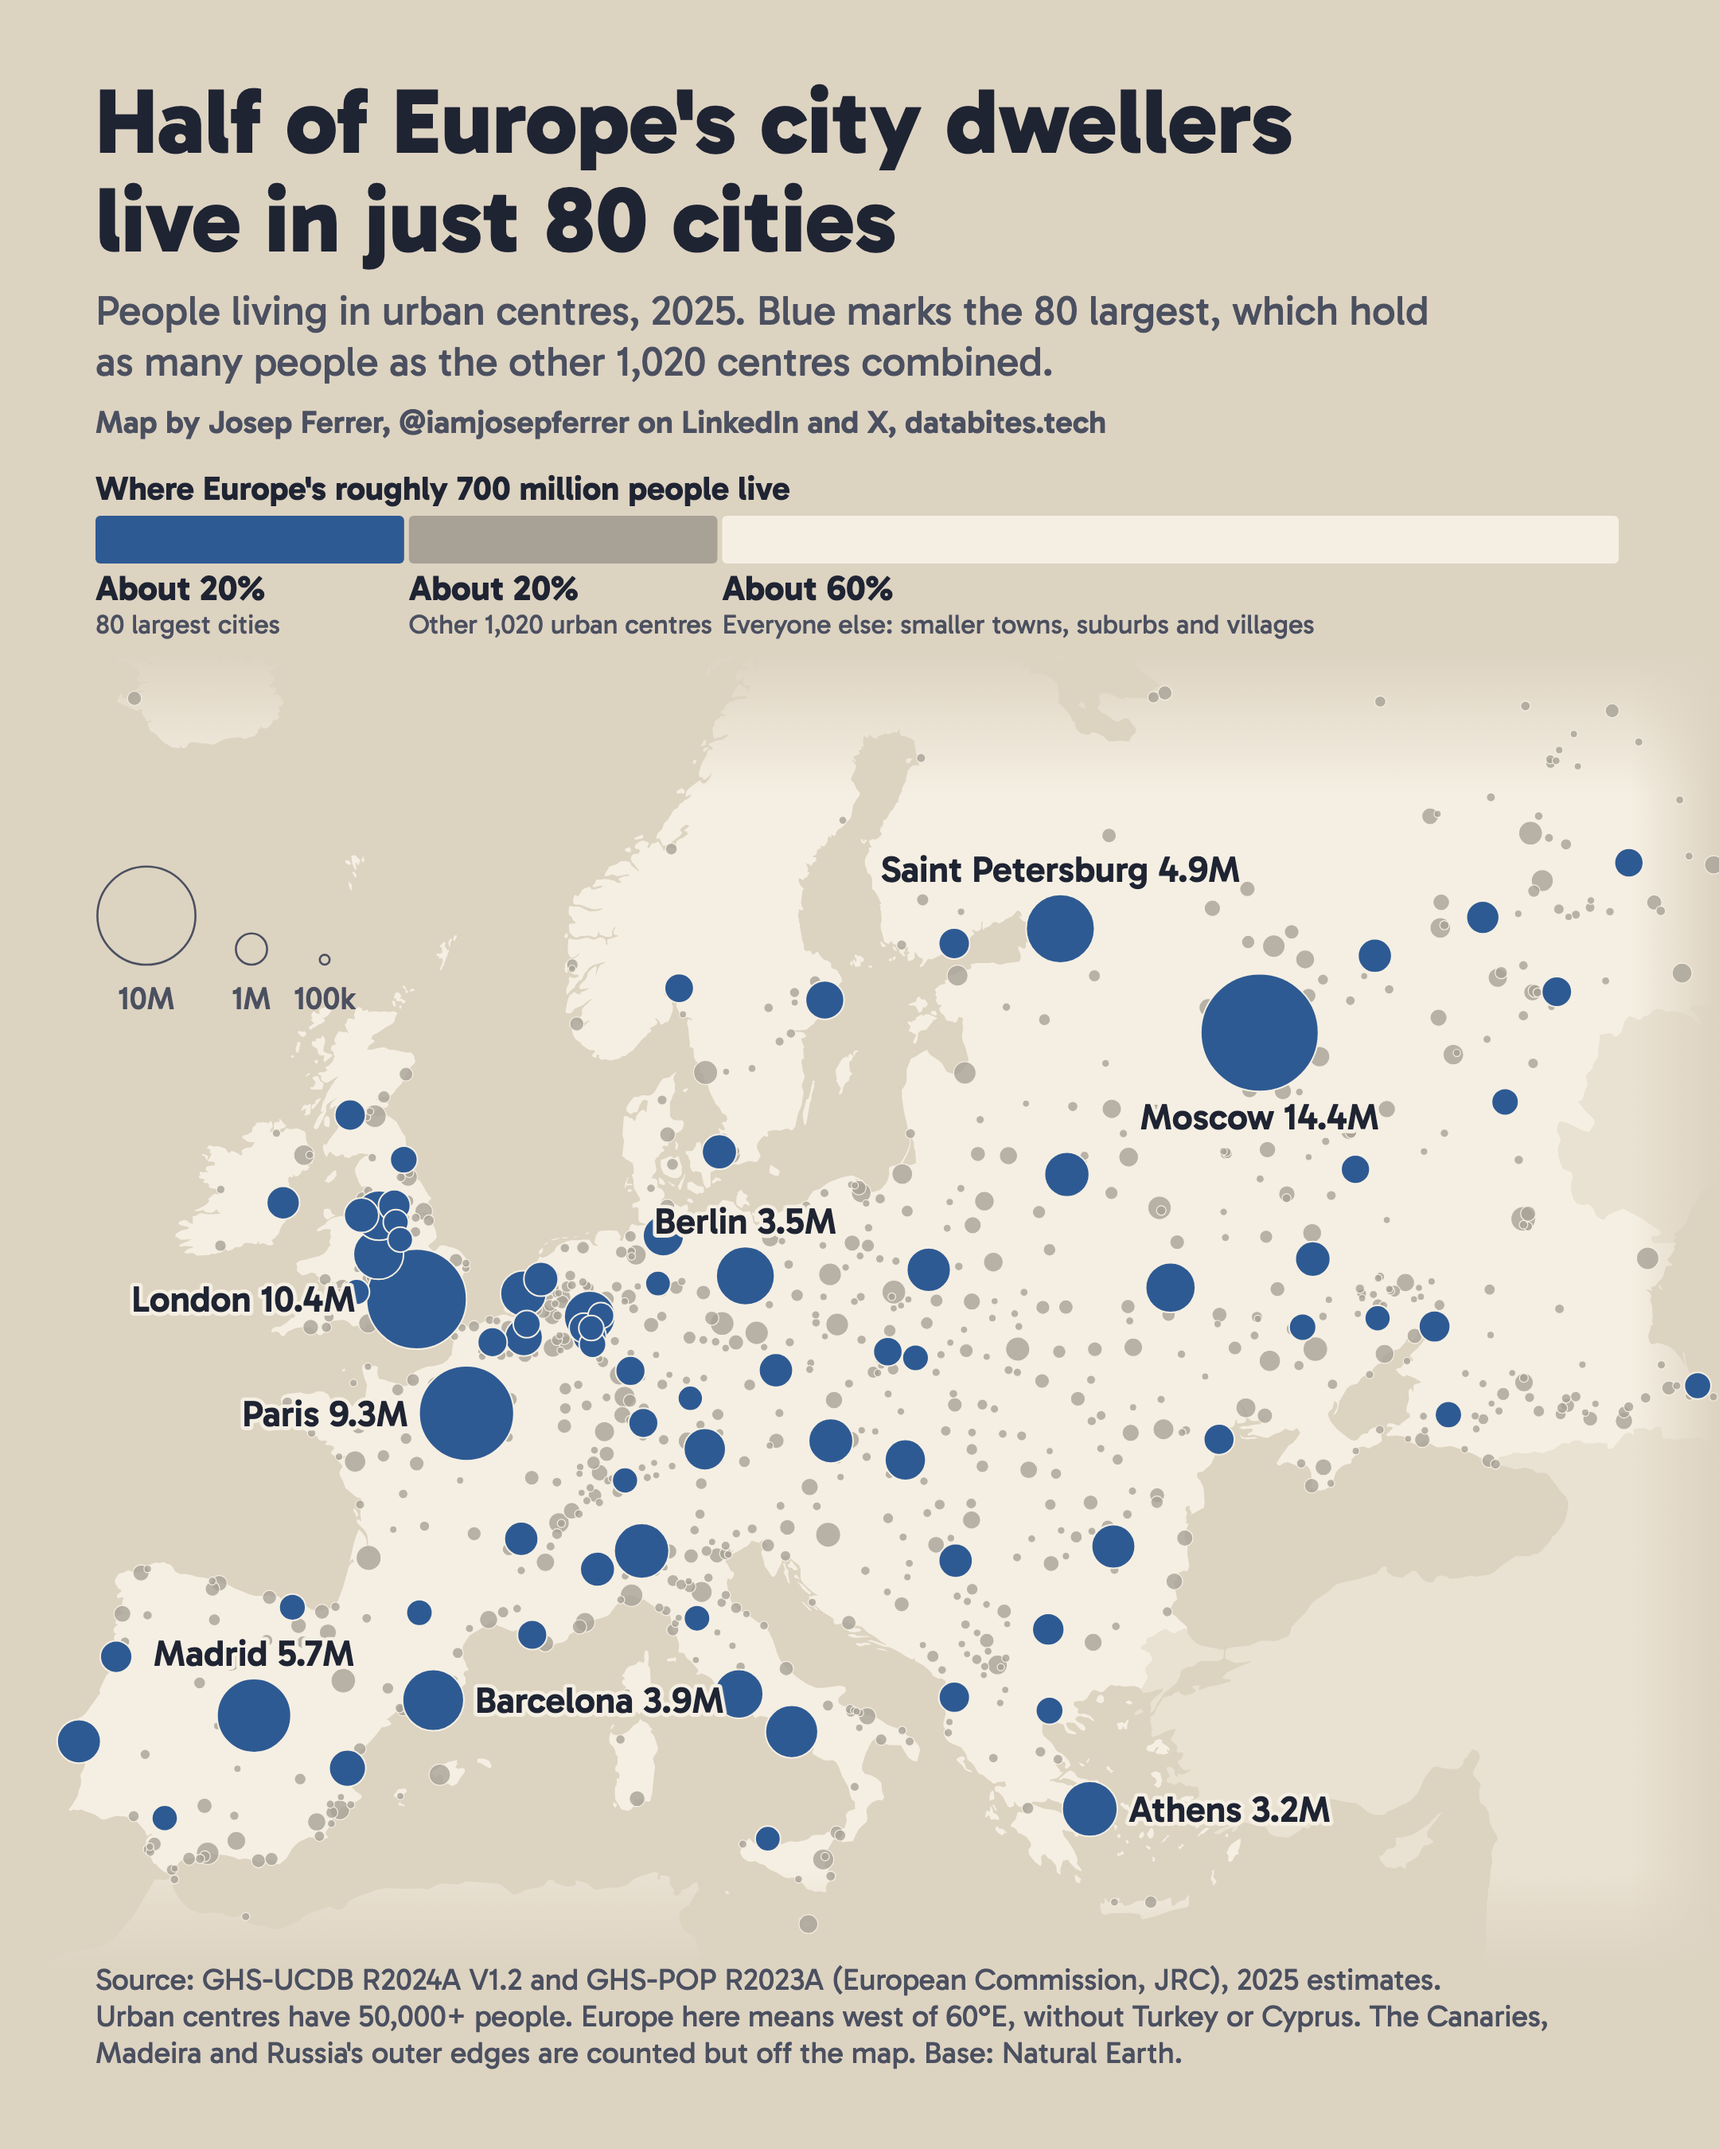
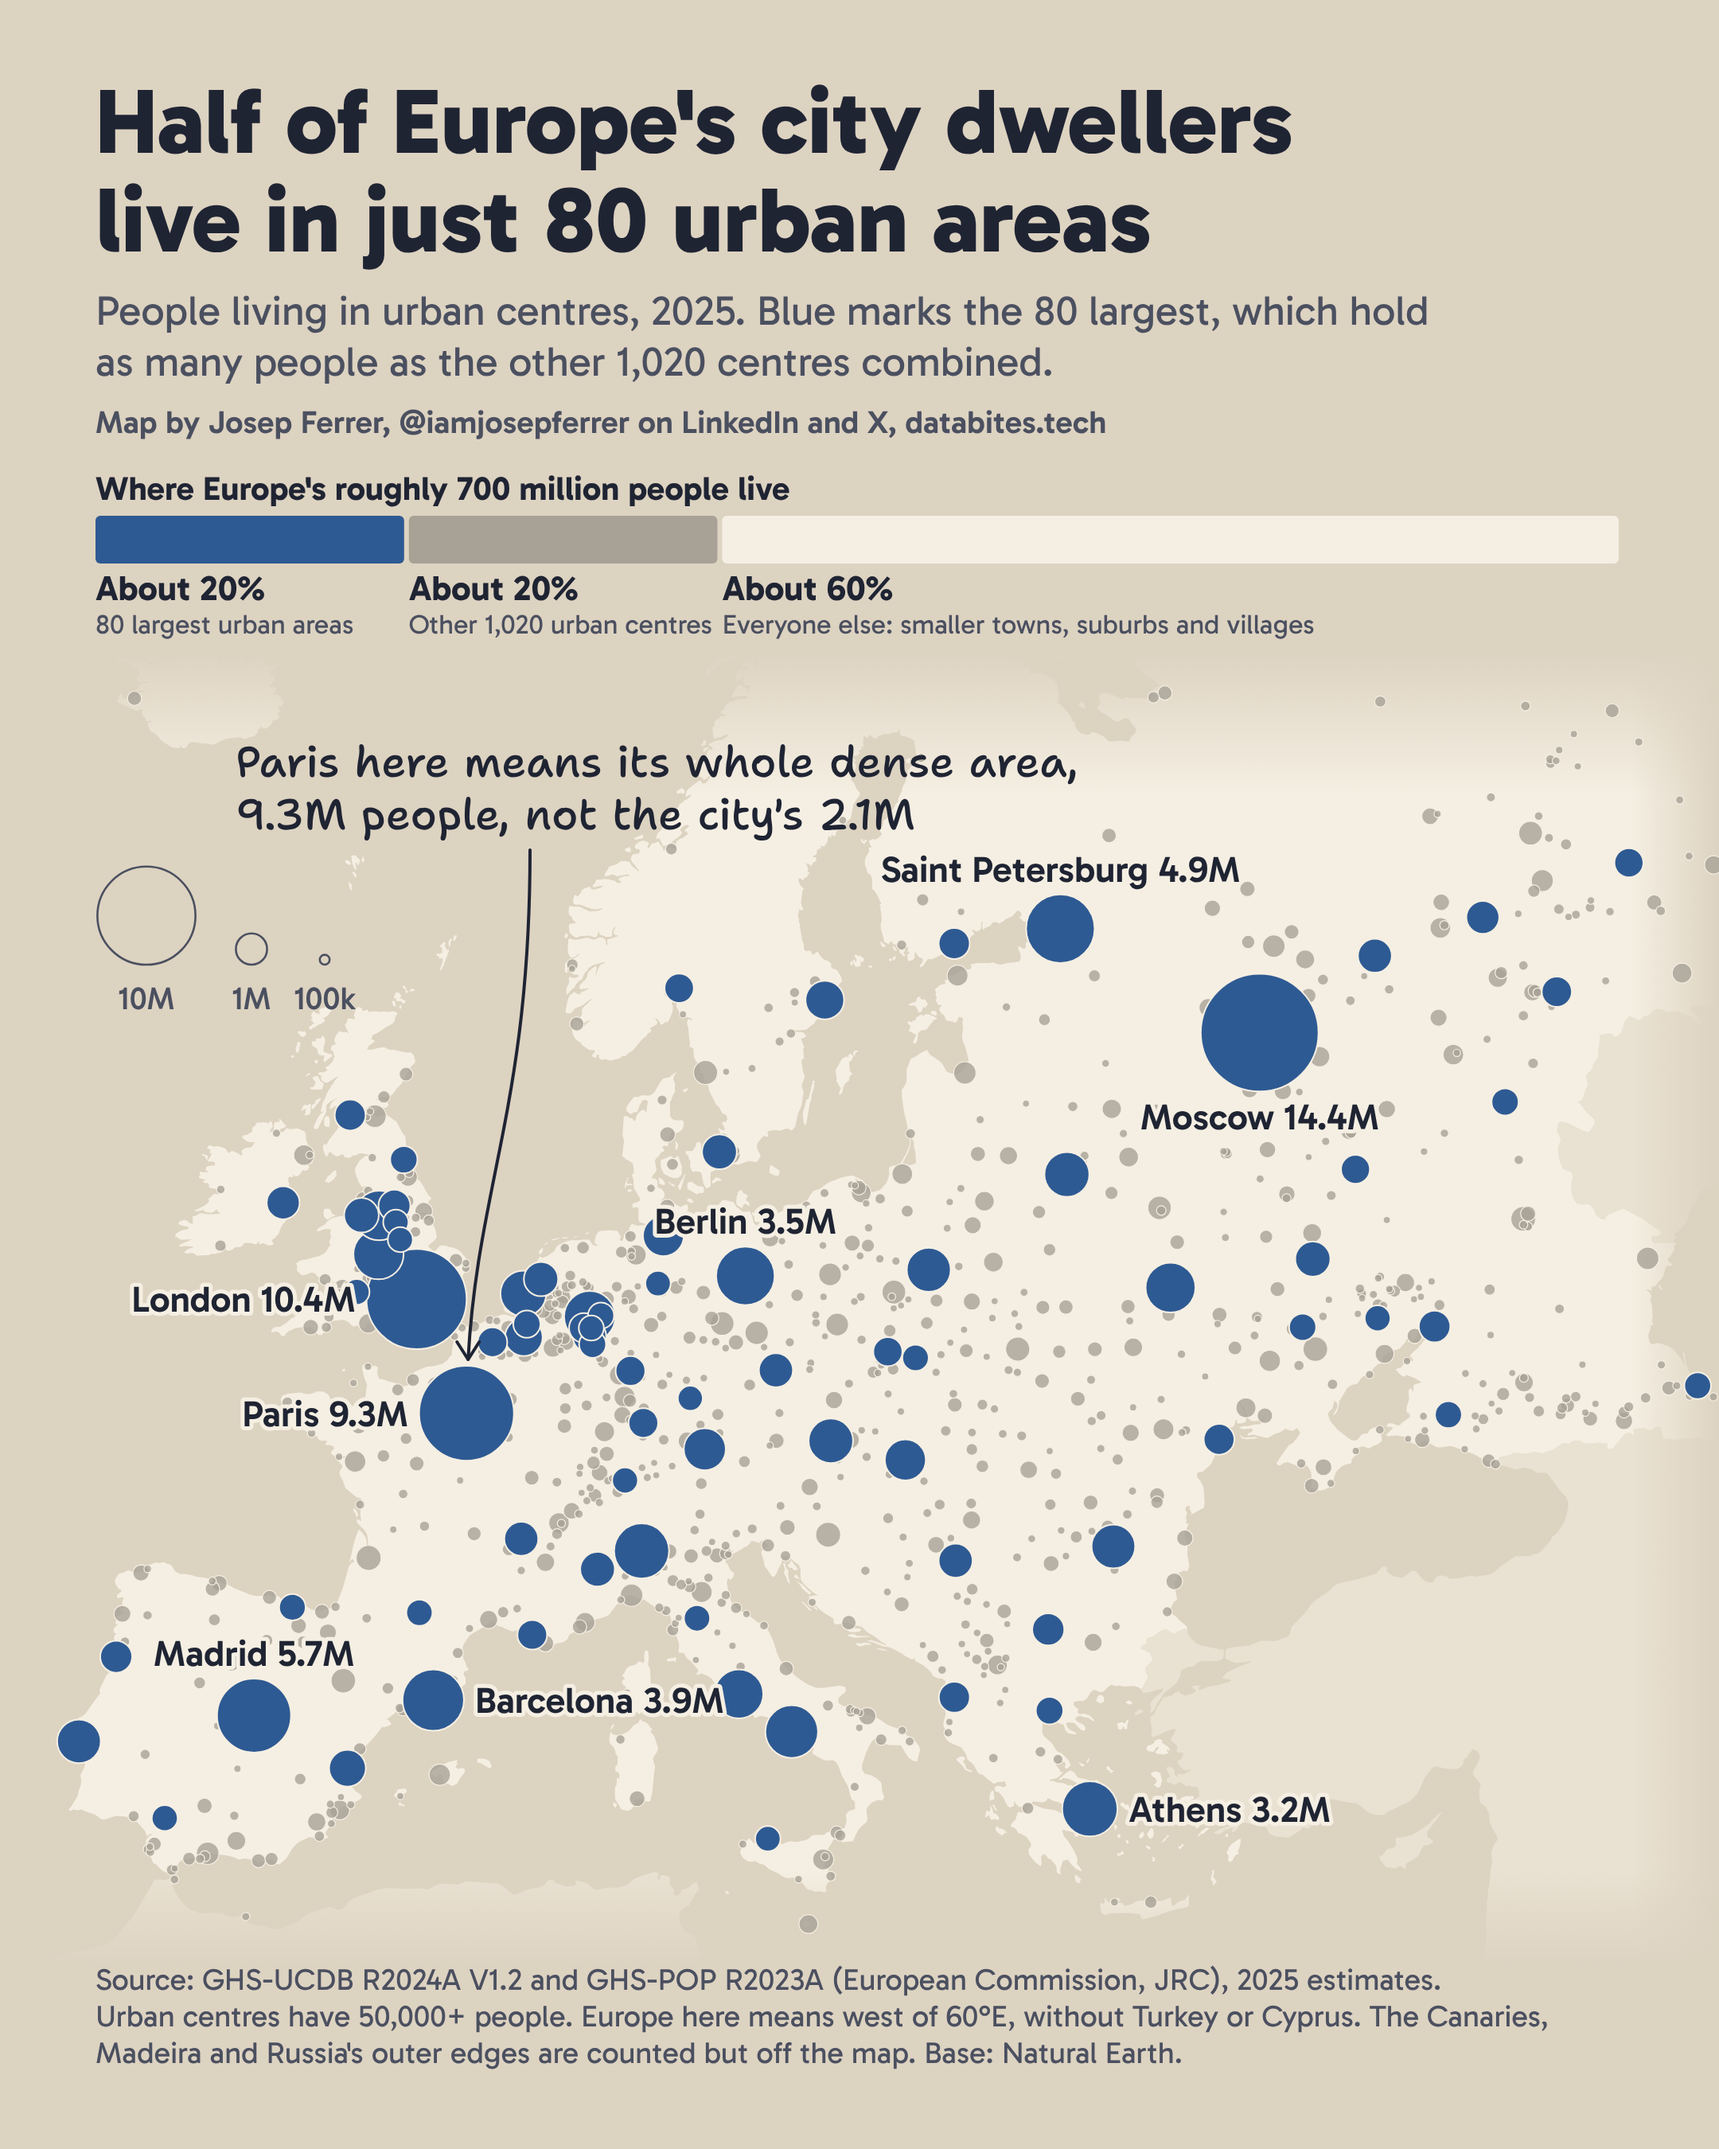
Day 1: clearer wording, Paris note with arrow

Changed region(s): [[0.1241, 0.3422, 0.6204, 0.4044], [0.4032, 0.0622, 0.6824, 0.1244], [0.1241, 0.28, 0.1861, 0.3111]]

diff --git a/2026/day01_points/day01_points.py b/2026/day01_points/day01_points.py
@@ -1,4 +1,4 @@
-"""Day 1, Points: half of Europe's city dwellers live in just 80 cities."""
+"""Day 1, Points: half of Europe's city dwellers live in just 80 urban areas."""
 import sys
 from pathlib import Path
 
@@ -83,7 +83,7 @@ for name, side in LABELS.items():
 
 # Headline, dek and byline
 svg.append(text(60, 96, "Half of Europe's city dwellers", 58, 800))
-svg.append(text(60, 158, f"live in just {n_top} cities", 58, 800))
+svg.append(text(60, 158, f"live in just {n_top} urban areas", 58, 800))
 svg.append(text(60, 204, f"People living in urban centres, 2025. Blue marks the {n_top} largest, which hold", 26, 400, C["ink2"]))
 svg.append(text(60, 236, f"as many people as the other {len(cities) - n_top:,} centres combined.", 26, 400, C["ink2"]))
 svg.append(byline(272))
@@ -92,7 +92,7 @@ svg.append(byline(272))
 BAR_X, BAR_W, BAR_Y, BAR_H, GAP = 60, 960, 324, 30, 3
 svg.append(text(BAR_X, 314, f"Where Europe's roughly {round(europe_total / 1e8) * 100} million people live", 21, 700))
 segments = [
-    (top_pop, C["blue"], f"{n_top} largest cities"),
+    (top_pop, C["blue"], f"{n_top} largest urban areas"),
     (other_pop, C["ctx"], f"Other {len(cities) - n_top:,} urban centres"),
     (rest_pop, C["page"], "Everyone else: smaller towns, suburbs and villages"),
 ]
@@ -109,6 +109,20 @@ for key_x, population, label in [(92, 10e6, "10M"), (158, 1e6, "1M"), (204, 1e5,
     r = radius(population)
     svg.append(f'<circle cx="{key_x}" cy="{606 - r:.1f}" r="{r:.1f}" fill="none" stroke="{C["ink2"]}" stroke-width="1.3"/>')
     svg.append(text(key_x, 634, label, 20, 500, C["ink2"], "middle"))
+
+# One handwritten note, in the open space above the British Isles
+paris = cities[cities.name == "Paris"].iloc[0]
+note_x, note_y = 148, 488
+svg.append(
+    f'<text class="note" x="{note_x}" y="{note_y}" font-size="27" fill="{C["ink"]}">'
+    f'<tspan x="{note_x}">Paris here means its whole dense area,</tspan>'
+    f'<tspan x="{note_x}" dy="33">{paris["pop"] / 1e6:.1f}M people, not the city\'s 2.1M</tspan></text>'
+)
+# Arrow through the open North Sea, landing on the top of the Paris circle
+x0, y0 = note_x + 185, note_y + 46
+x1, y1 = paris.px + 1, paris.py - radius(paris["pop"]) - 4
+svg.append(f'<path d="M{x0} {y0} C {x0} {y0 + 160}, {x1 + 6} {y1 - 110}, {x1:.1f} {y1:.1f}" fill="none" stroke="{C["ink"]}" stroke-width="2" stroke-linecap="round"/>')
+svg.append(f'<path d="M{x1 - 7:.1f} {y1 - 11:.1f} L{x1:.1f} {y1:.1f} L{x1 + 7:.1f} {y1 - 11:.1f}" fill="none" stroke="{C["ink"]}" stroke-width="2" stroke-linecap="round" stroke-linejoin="round"/>')
 
 # Source
 svg.append(text(60, 1250, "Source: GHS-UCDB R2024A V1.2 and GHS-POP R2023A (European Commission, JRC), 2025 estimates.", 19, 400, C["muted"]))

diff --git a/2026/README.md b/2026/README.md
@@ -2,7 +2,7 @@
 
 One map a day about Europe, each built around a clear finding.
 
-- [Day 1, Points: half of Europe's city dwellers live in just 80 cities](#day-1-points)
+- [Day 1, Points: half of Europe's city dwellers live in just 80 urban areas](#day-1-points)
 - [Day 2, Lines: Europe's biggest port is the nearest one for under 4% of city dwellers](#day-2-lines)
 - [Data sources and licenses](#data-sources-and-licenses)
 - [How to recreate the maps](#how-to-recreate-the-maps)
@@ -13,7 +13,7 @@ One map a day about Europe, each built around a clear finding.
 
 ## Day 1: Points
 
-![Half of Europe's city dwellers live in just 80 cities](day01_points/day01_points.png)
+![Half of Europe's city dwellers live in just 80 urban areas](day01_points/day01_points.png)
 
 ### What it shows
 
@@ -30,7 +30,7 @@ The map rounds these to "about 20%" and "about 60%", because the total depends o
 
 ### What counts as a city here
 
-The map uses urban centres as defined by the European Commission's Joint Research Centre (JRC): contiguous 1 km grid cells with at least 1,500 inhabitants per km² and at least 50,000 people in total. This follows where people actually live, not municipal borders. For example, Essen, Duisburg, Bochum and seven neighbouring Ruhr towns count as one urban centre of 2.7 million.
+The map uses urban centres as defined by the European Commission's Joint Research Centre (JRC): contiguous 1 km grid cells with at least 1,500 inhabitants per km² and at least 50,000 people in total. This follows where people actually live, not municipal borders. For example, Essen, Duisburg, Bochum and seven neighbouring Ruhr towns count as one urban centre of 2.7 million. In the same way, Paris on the map is its whole dense area of 9.3 million people, while the city of Paris itself has about 2.1 million.
 
 ### How it was made
 
